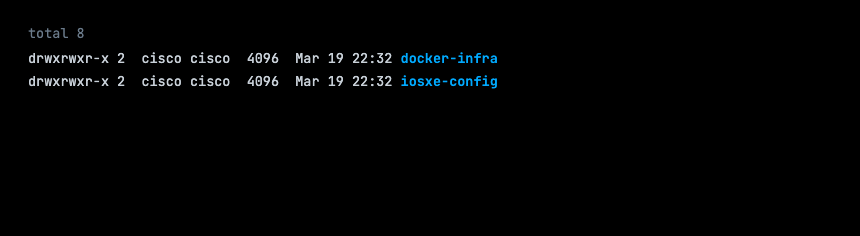
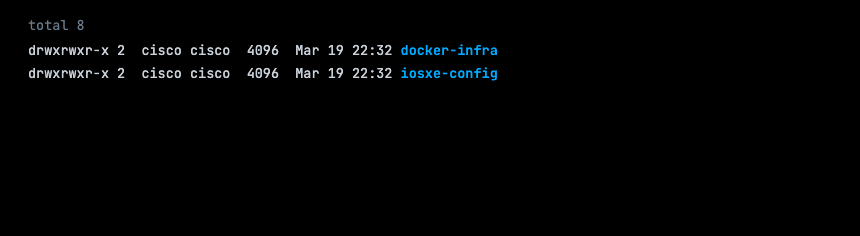
tighten bottom crop on task5-ls-modules-output

Changed region(s): [[0.0302, 0.089, 0.6047, 0.3856]]

diff --git a/images/task5-ls-modules-output.html b/images/task5-ls-modules-output.html
@@ -18,7 +18,7 @@
   .terminal {
     background: #000000;
     width: 860px;
-    padding: 22px 28px 22px 28px;
+    padding: 14px 28px 14px 28px;
     font-size: 13.5px;
     line-height: 1.7;
     color: #c8d0d8;
